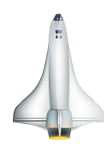
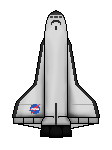
Replaced spaceship image due to unknown source

Changed region(s): [[0.1071, 0.0533, 0.9375, 0.9333]]

diff --git a/Python/MainWithSpeed.py b/Python/MainWithSpeed.py
@@ -11,7 +11,7 @@ pygame.init()
 
 #Background Music
 pygame.mixer.music.load("backgroundsongofchoice.mp3")#As you probably know song should be in the game folder
-pygame.mixer.music.set_volume(1)#Volume
+pygame.mixer.music.set_volume(0.1)#Volume
 pygame.mixer.music.play(-1)#This loops the song
 
 #Colour palette 
@@ -201,15 +201,14 @@ def binarySearch(searchValue, array):
     first = 0
     last = len(array) - 1
     beenFound = False
-	
+
     while first <= last and not beenFound:
         midpoint = (first + last)//2
 
         if array[midpoint] == searchValue:
             result = str(searchValue) + " has been found"
             beenFound = True
-            
-	    
+
         else:
             if searchValue < array[midpoint]:
                 last = midpoint-1
@@ -245,7 +244,6 @@ class Ship:
 
             self.adv = False #Is ship accelerating?
             self.decc = False
-            
 
             #store ship image dimensions
             self.sW, self.sH = Ship.get_size()
@@ -303,9 +301,6 @@ class Ship:
             #centre ship by subtracting half ship size from given dimensions
             gameDisplay.blit(Ship, (self.dW/2-self.sW*0.5,self.dH/2-self.sH*0.5))"""
 
-            
-            
-        
 
 class NotAShip:
     """Placeholder class used for objects that are not the player, i.e. ones that need scrolling"""
@@ -338,7 +333,6 @@ class NotAShip:
         universe.append(self)
         inMemory.append(self)
 
-    
     def update(self):
 
         global mineShow,display_width,display_height,money,fuel,mineArg,shopNote,invNote,invSize
@@ -371,9 +365,6 @@ class NotAShip:
                 mineArg = [self.n,self.b,self.p,self.f]
                 shopNote = False
                 invNote = False
-
-
-
 
 def ranValue():
     global inventory, itemCost
@@ -517,16 +508,6 @@ while not gameExit:
     else:
         timeR = 0
         ranValue()
-    
-    
-
-    """
-    inventoryItem1 = pygame.Surface((80,80))
-    inventoryItem1.set_alpha(100)
-    pygame.draw.rect(inventoryItem1, red, (25, 25, 50, 50), 0)
-    pygame.transform.rotate(inventoryItem1,45)
-    gameDisplay.blit(inventoryItem1, ((int(display_width*0.5-90), 40) ))
-    """
 
     #Item Icons (can replace with sprites later if so desired) future proofed in case of resolution manipulation
     invIcon1 = pygame.draw.polygon(gameDisplay, invyellow, (((display_width/2)-105, 10), ((display_width/2)-130, 35), ((display_width/2)-105, 60), ((display_width/2)-80, 35)))
@@ -713,14 +694,5 @@ while not gameExit:
     #Clock ticks to run at FPS
     clock.tick(FPS)
 
-
-
 #Close window, end game
 pygame.quit()
-
-
-
-                
-            
-    
-    
